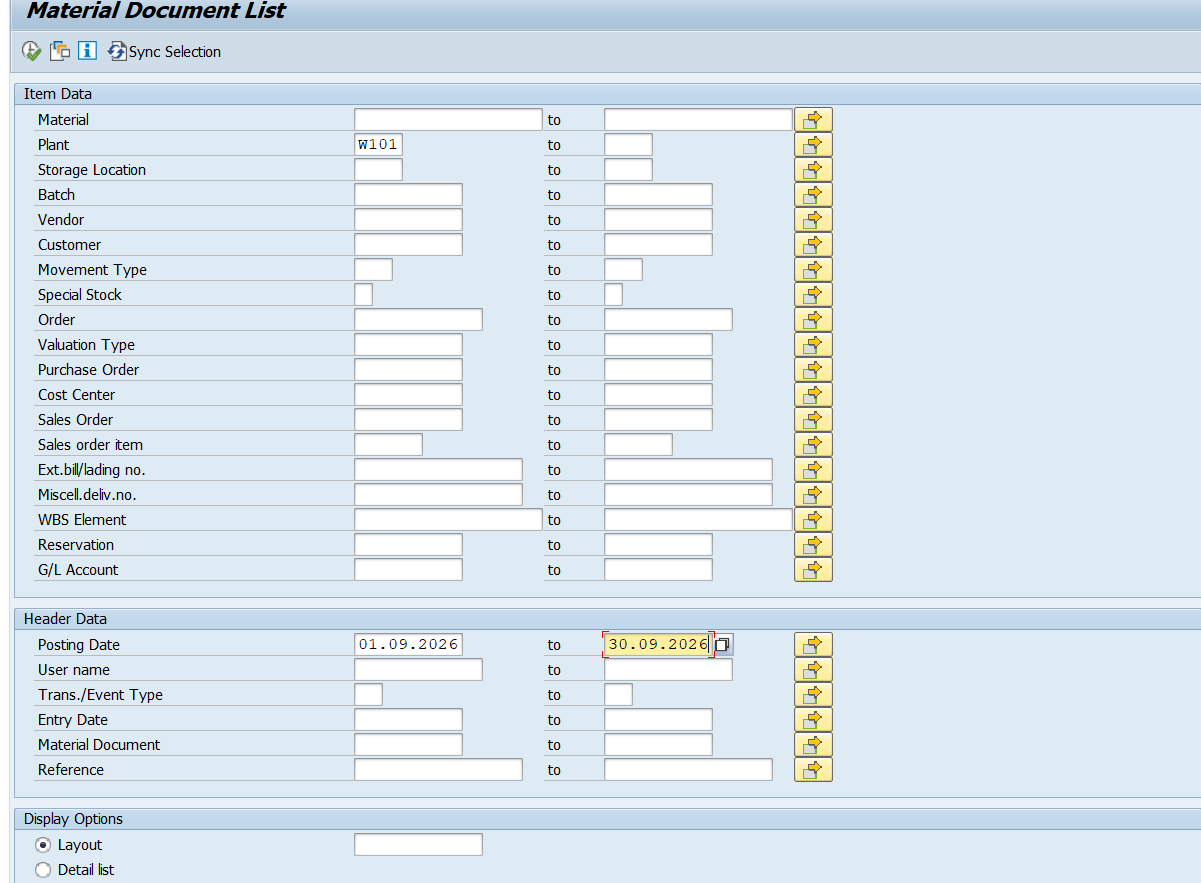
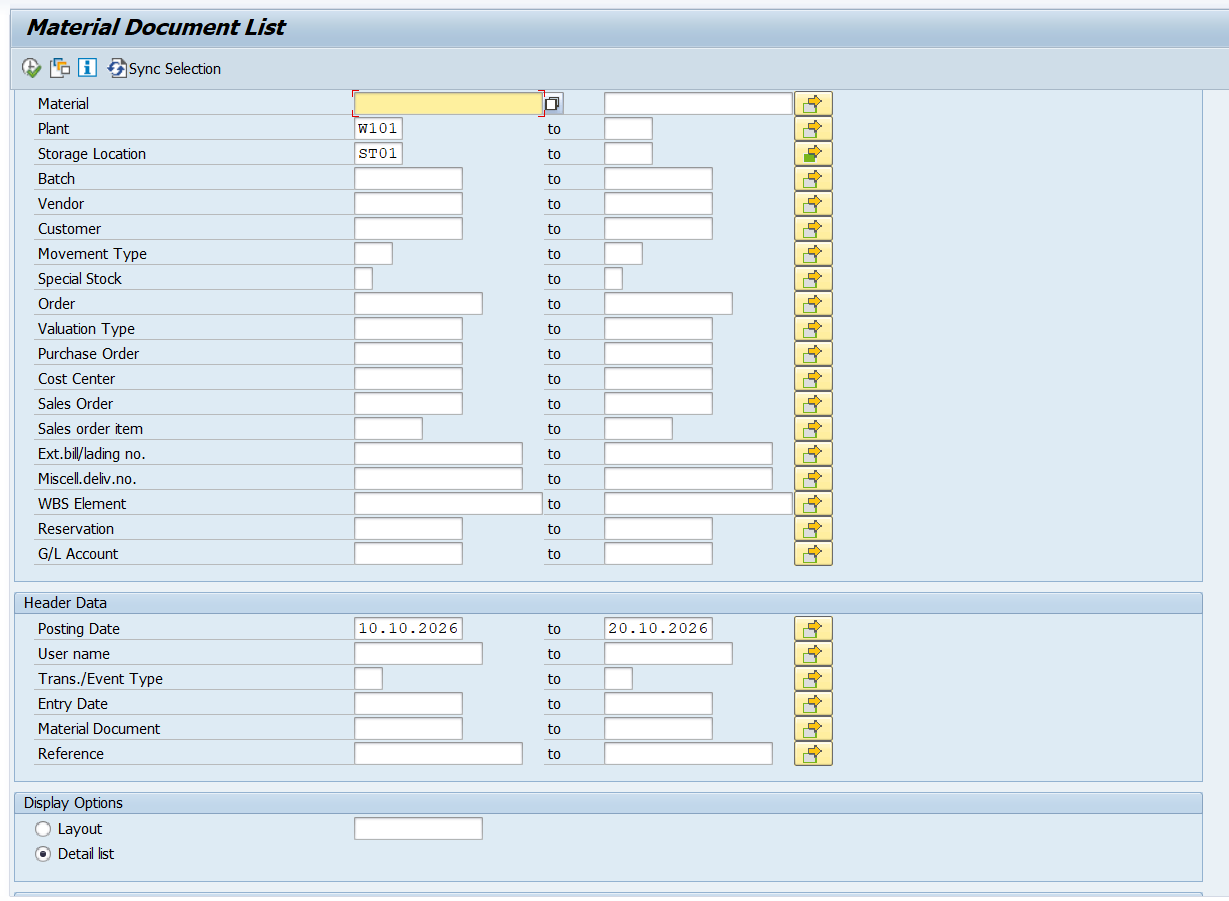
Panduan ZMB51: Storage Location ST01 & SC01, Detail list tanpa layout, Data Source Database, gambar SAP baru

diff --git a/js/app.js b/js/app.js
@@ -51,7 +51,7 @@
   };
 
   // Repo GitHub tempat data website disimpan (bisa diganti di Pengaturan)
-  var APP_VERSION = '20261020d'; // samakan dengan ?v= di index.html setiap rilis
+  var APP_VERSION = '20261020e'; // samakan dengan ?v= di index.html setiap rilis
   var DEFAULT_REPO = 'StackGeefer/Warehouse-SCM';
   var GH_BRANCH = 'main';
   var RECENT_MS = 15 * 60 * 1000;
@@ -1240,8 +1240,11 @@
         img: 'assets/tutorial/sap-zmb52.png',
         steps: ['Masukkan T-Code <b class="mono">ZMB52</b>.', 'Plant: <b class="mono">W*</b> (semua plant).', 'Centang <b>Display Batch Stocks</b>. <i>No zero stock lines</i> tidak perlu dicentang.', 'Layout: <b class="mono">/BRANJANGAN</b>.', 'Execute → export ke Excel.'] }) +
       card({ rem: R.mb51, tc: 'ZMB51', title: 'Pemakaian ' + esc(home), freq: 'Setiap ganti bulan', freqCls: 'ro', file: tag + '_ZMB51',
-        img: 'assets/tutorial/sap-zmb51.png',
-        steps: ['Masukkan T-Code <b class="mono">ZMB51</b>.', 'Plant: <b class="mono">' + esc(homeP) + '</b>.', 'Posting Date: bulan lalu penuh — contoh <b class="mono">' + lastStart + '</b> s/d <b class="mono">' + lastEnd + '</b>.', 'Layout: <b class="mono">/BRANJANGAN</b>.', 'Execute → export ke Excel.'] }) +
+        img: 'assets/tutorial/sap-zmb51.png?v=2',
+        steps: ['Masukkan T-Code <b class="mono">ZMB51</b>.', 'Plant: <b class="mono">' + esc(homeP) + '</b>.',
+          'Storage Location (Multiple Selection): <b class="mono">ST01</b> dan <b class="mono">SC01</b>.',
+          'Posting Date: bulan lalu penuh — contoh <b class="mono">' + lastStart + '</b> s/d <b class="mono">' + lastEnd + '</b>.',
+          'Display Options: pilih <b>Detail list</b>, Layout <b>dikosongkan</b>.', 'Data Source: <b>Database</b>.', 'Execute → export ke Excel.'] }) +
       card({ rem: R.oa, tc: 'ME3N', title: 'Kontrak OA / RO', freq: 'Setiap ganti bulan', freqCls: 'ro', file: tag + '_ME3N',
         img: 'assets/tutorial/sap-me3n.png',
         steps: ['Masukkan T-Code <b class="mono">ME3N</b>.', 'Scope of List: <b class="mono">ALV</b>.', 'Document Type (Multiple Selection): <b class="mono">ZFU</b>, <b class="mono">ZKC2</b>, <b class="mono">ZKC3</b>.', 'Purchasing Organization: <b class="mono">2021</b>.', 'Purchasing Group (Multiple Selection): <b class="mono">' + Model.PG_MAIN.join('</b>, <b class="mono">') + '</b>.', 'Validity Key Date: akhir bulan berjalan — contoh <b class="mono">' + monthEnd + '</b>.', 'Execute → export ke Excel.'] }) +

diff --git a/index.html b/index.html
@@ -10,7 +10,7 @@
   <link rel="preconnect" href="https://fonts.googleapis.com">
   <link rel="preconnect" href="https://fonts.gstatic.com" crossorigin>
   <link href="https://fonts.googleapis.com/css2?family=Plus+Jakarta+Sans:wght@400;500;600;700;800&display=swap" rel="stylesheet">
-  <link rel="stylesheet" href="css/style.css?v=20261020d">
+  <link rel="stylesheet" href="css/style.css?v=20261020e">
 </head>
 <body>
   <div class="app">
@@ -76,15 +76,15 @@
   <input type="file" id="fileInput" accept=".xlsx,.xls,.xlsm" multiple hidden>
 
   <script src="vendor/xlsx.full.min.js"></script>
-  <script src="js/parser.js?v=20261020d"></script>
-  <script src="js/search.js?v=20261020d"></script>
-  <script src="js/synonyms.js?v=20261020d"></script>
-  <script src="js/brand.js?v=20261020d"></script>
-  <script src="js/scene.js?v=20261020d"></script>
-  <script src="js/store.js?v=20261020d"></script>
-  <script src="js/vault.js?v=20261020d"></script>
-  <script src="js/model.js?v=20261020d"></script>
-  <script src="js/export.js?v=20261020d"></script>
-  <script src="js/app.js?v=20261020d"></script>
+  <script src="js/parser.js?v=20261020e"></script>
+  <script src="js/search.js?v=20261020e"></script>
+  <script src="js/synonyms.js?v=20261020e"></script>
+  <script src="js/brand.js?v=20261020e"></script>
+  <script src="js/scene.js?v=20261020e"></script>
+  <script src="js/store.js?v=20261020e"></script>
+  <script src="js/vault.js?v=20261020e"></script>
+  <script src="js/model.js?v=20261020e"></script>
+  <script src="js/export.js?v=20261020e"></script>
+  <script src="js/app.js?v=20261020e"></script>
 </body>
 </html>
